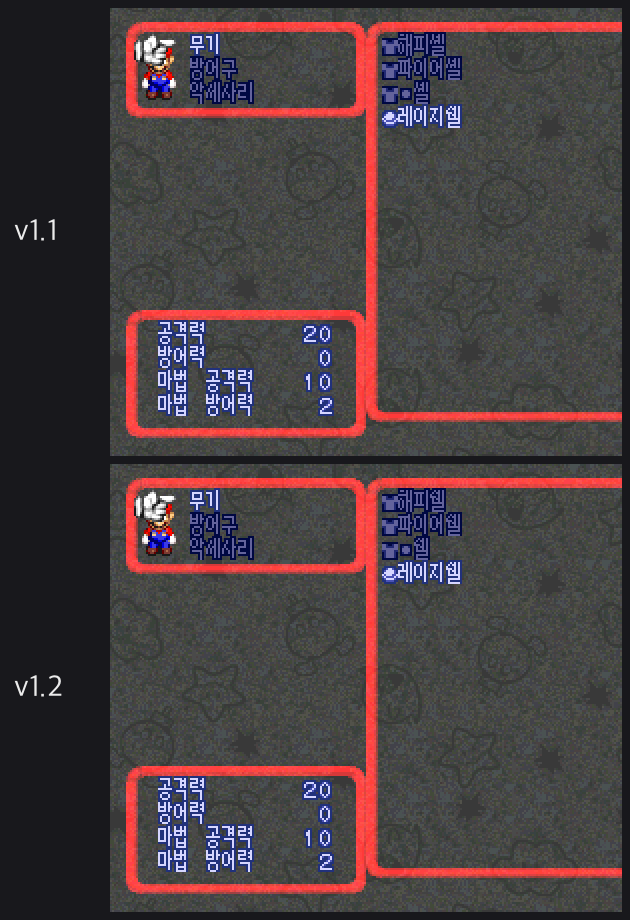
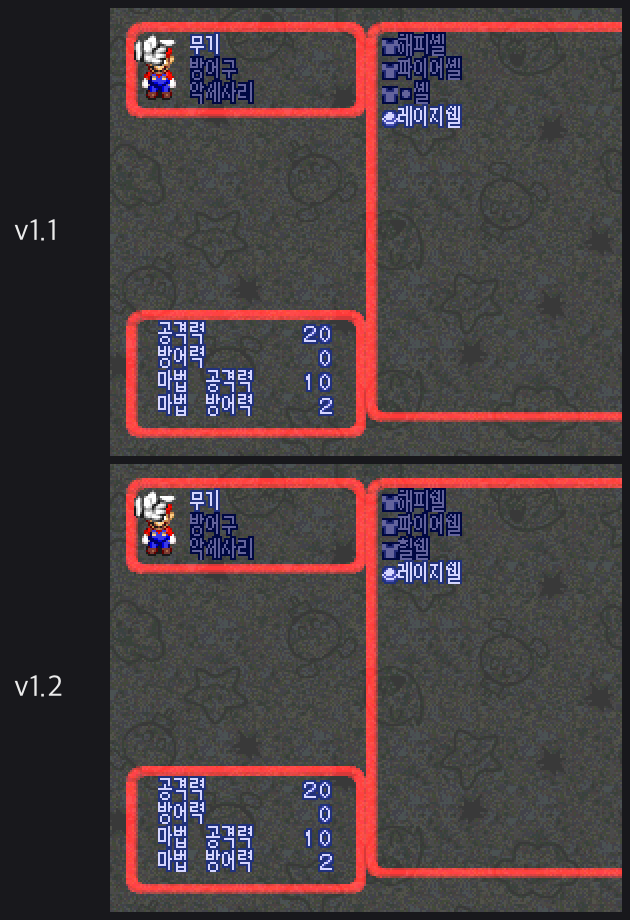
fix: 슈퍼 마리오 RPG v1.2 메뉴에서 깨지던 「힐」「휠」 고치기
v1.0 메뉴 폰트 코드표가 0x5F 를 「힐」, 0xFF 를 「휠」로 적어 두었지만 실제 그림은 점과 「빼」였다. 빌드가 이 표를 믿어 메뉴에서 「힐쉘」이 「●쉘」로, 「지노휠」이 「지노빼」로 나왔다.

- 두 글자를 코드표에서 빼고 동적 글자로 그리게 했다
- 아이템·필살기·적 이름 414개를 메뉴 쪽에서 글자 단위로 대조하는 검사를 빌드에 넣었다
- 롬·IPS·도구 zip·롬 판별·패치 노트·롬 분석 노트를 새 빌드에 맞췄다

diff --git a/src/lib/rom-patch.ts b/src/lib/rom-patch.ts
@@ -25,7 +25,7 @@ export const SMRPG: RomSpec = {
   size: 4194304,
   header: { title: 'SUPER MARIO RPG', mapMode: 0x23, cartType: 0x35, romSize: 0x0c },
   original: { crc32: '5527071E', md5: '59483FEB9EB20207E3241E005FBDDE7E' },
-  patched: { crc32: 'F9958CEE', md5: 'B7F2367BA37474AD3EE39F6E631CC26A' },
+  patched: { crc32: '05DBCBE6', md5: 'B7F488D4F448304890A4BCE8000248E2' },
   previous: [
     { version: 'v1.1', crc32: 'ABD8AC13', md5: '8E5320631EDCF274BF5C7A62C0417C55' },
     { version: 'v1.0', crc32: 'F4305A06', md5: 'AF6534D26150F9AB7A3765A9C7AF758D' },
